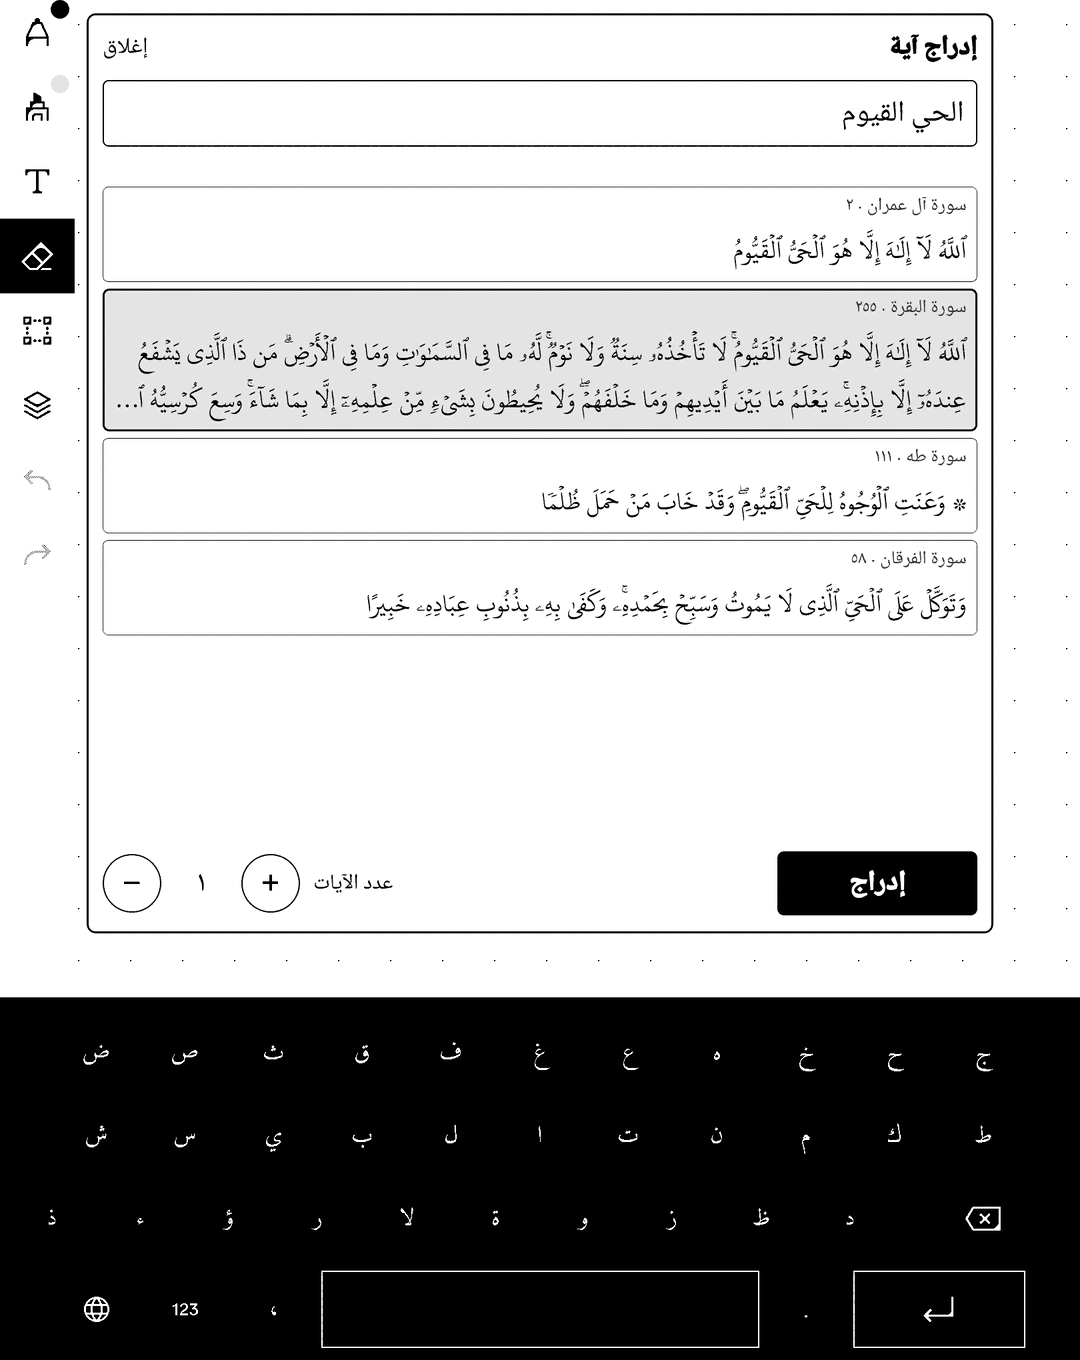
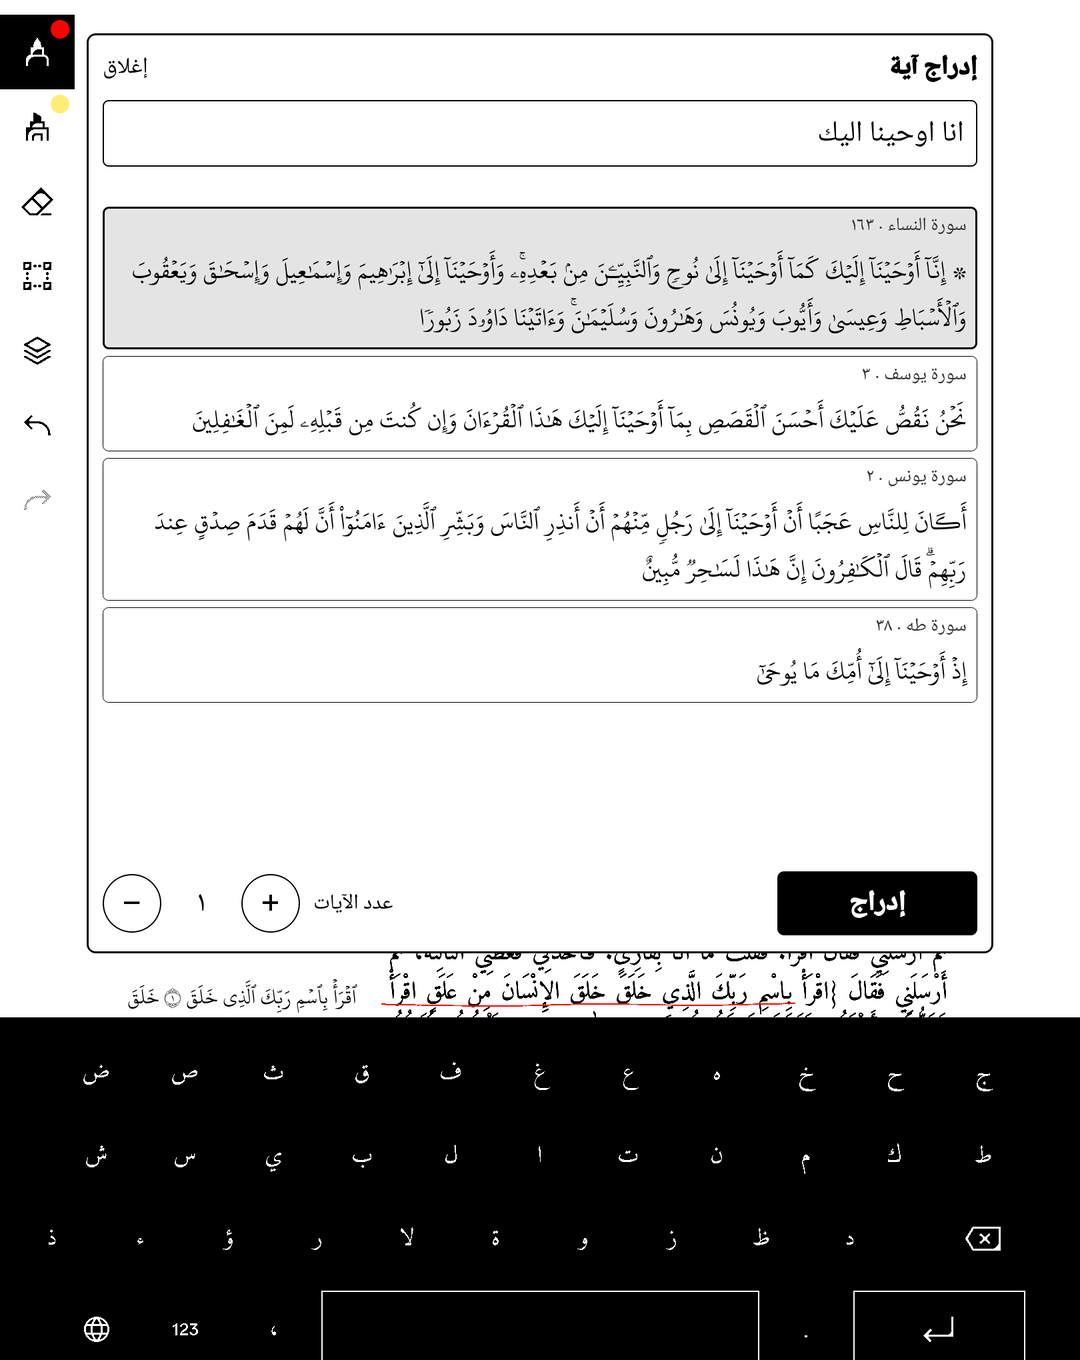
Show the midad layer in colour in the README
New screenshots from the tablet, kept in colour: the opening page of
Sahih al-Bukhari with ayat and a hadith placed in its margin and marked
up with highlighter and pen, the two search panels over it, and a
selected insert with its frame, width handle and toolbar.

Claude-Session: https://claude.ai/code/session_01EzHGbrtMpNPYW5Sa562ebo

diff --git a/ISA.md b/ISA.md
@@ -3,9 +3,9 @@ task: "Ayah toolbar with Arabic keyboard and fuzzy search on reMarkable"
 slug: 20261018-031836_rm-ayah-toolbar
 project: midad
 phase: climbing
-progress: 52/55
+progress: 53/55
 started: 2026-10-18T03:18:36+03:00
-updated: 2026-10-19T03:58:00+03:00
+updated: 2026-10-19T04:45:00+03:00
 principal_stated_goal: "I've created a test note for you, proceed by creating our ayah toolbar, we can use a local version of https://github.com/quran-ws/quran-png to insert ayah(s), with accurate fuzzy search."
 principal_stated_goal_source: prompt
 principal_stated_goal_signal: 4
@@ -117,8 +117,8 @@ Why: anyone with a Paper Pro on xovi (the principal included, after a reset) can
 - [x] C39: A Vellum VELBUILD for the addon exists in the repo, follows Vellum's format, and notes that a person must submit it (no AI-written PR text or co-author trailers).
 - [x] C40: Anti: the shipped QMD carries no dev surfaces (no message-broker probe/reload hooks); those live in a separate dev QMD.
 - [x] C41: Anti: install and uninstall touch only the files the bundle ships (plus their staging and the guard's parking dir); /home/root/ayah-backups and every xochitl document stay untouched.
-- [x] C42: The README opens with real tablet screenshots: a note holding an ayah in the QPC font and a hadith in Amiri, then the ayah and hadith panels, each with a query, ranked results and the Arabic keyboard.
-- [x] C43: Anti: no preview shows the principal's own documents, file names or other personal data, and the image files carry no metadata; every shot comes from the test note.
+- [x] C42: The README opens with real tablet screenshots, in colour: a page holding layer inserts (ayat in the QPC font, a hadith in Amiri) among coloured handwriting, then the ayah and hadith panels, each with a query, ranked results and the Arabic keyboard, then a selected insert with its controls. (refined 2026-10-19 04:40: the principal asked for "pretty new pictures" and "use colors")
+- [x] C43: Anti: no preview shows the principal's own documents, file names or other personal data, and the image files carry no metadata; every shot comes from the test note or the midad demo document.
 - [x] C44: The product is named midad everywhere: GitHub repo HafsOrg/midad, README and flake description in the principal's words, tarball midad-<v>-aarch64.tar.gz, Vellum package midad, tablet folder /home/root/midad, and midad.qmd, midad-kbd.rcc and midad.conf in xovi's shared folders; no tracked file outside this ISA's history keeps the old product name.
 - [x] C45: Anti: the principal's tablet ends the rename with exactly one install, the midad one: no ayah-toolbar folder, ayahBar.qmd, ayah-kbd.rcc or ayah-toolbar.conf left, xochitl healthy with the shim loaded from /home/root/midad, and /home/root/ayah-backups untouched.
 
@@ -141,7 +141,7 @@ Then: "the text sticks to the drawing, can i disable this effect" (2026-10-19): 
 - [x] C57: Anti: no midad insert or move ever shifts or deletes a stroke of the principal's handwriting ("the text sticks to the drawing, can i disable this effect", 2026-10-19). (refined 2026-10-19 03:10: now holds because inserts never enter xochitl's text flow)
 - [x] C58: On a page with handwriting, an insert can still be placed anywhere, and placing or moving it never shifts or deletes a stroke.
 - [x] C59: A new ayah or hadith goes into the midad layer: drawn over the page in its category's font (KFGQPC for ayat, Amiri for hadith), right-aligned, wrapped to its box, and selected right away so it can be moved.
-- [ ] C60: Layer inserts are kept per document and page in `/home/root/.local/share/midad/layer.ini`, written atomically on every change; they come back after the document is closed and reopened and after xochitl restarts, and install, reinstall and uninstall leave that file alone.
+- [x] C60: Layer inserts are kept per document and page in `/home/root/.local/share/midad/layer.ini`, written atomically on every change; they come back after the document is closed and reopened and after xochitl restarts, and install, reinstall and uninstall leave that file alone.
 - [x] C61: A finger tap selects a layer insert. Selected, it follows a finger or the pen anywhere on the page (kept inside the page), a handle sets its width, − and + step its size, حذف removes it, and تم, a page turn or opening the search panel deselects it.
 - [x] C62: Anti: an unselected layer insert doesn't get in the pen's way: a stroke drawn across one lands in the page file like any stroke, and a finger drag that starts on it still scrolls or zooms the page.
 - [x] C63: A layer insert stays over the same spot of the page when the page is zoomed or scrolled.
@@ -264,6 +264,8 @@ Why: this is the principal's daily device with real notes on it.
 - 2026-10-19 03:10: the principal chose "midad layer": inserts drawn by midad over the page and kept in midad's own file, never in xochitl's text, so handwriting is never pinned to them. I'm using it for every new insert, not only on pages with handwriting, since a page can gain handwriting later; typed inserts already on pages stay typed and keep their fonts through the unchanged shim. Typed-text moving retires (handles, نقل, page reads, PDF text mode, `move.js`), so C47–C53 and C56 are tombstoned and C46, C54, C55 and C57 reopen for the layer. Known costs: layer inserts don't show in xochitl's exports, thumbnails or cloud sync, and xochitl's undo doesn't cover them. Storage probe on the tablet: a QML `XMLHttpRequest` PUT writes a file:// URL only when its folder exists (status 0 either way), while QtCore `Settings` (Qt 6.8.2) creates the folders and writes through QSaveFile, so the layer is one INI file, `/home/root/.local/share/midad/layer.ini`, with each document's pages as a JSON value under its id, outside `/home/root/midad` so installs never touch it.
 - 2026-10-19 03:40: the layer draws on two levels. xochitl's pen surface manager keeps a `region` where the pen may write and cuts out every painted item stacked above the surface (Rectangles and Text; a bare Item with a MouseArea is not cut out), on top of explicit `PenInputBlocker`s. So unselected inserts are drawn in an item parented into xochitl's page container (`SceneViewsRoot`, under the pen surface), where the pen writes over them; the selected insert and its frame, width handle and toolbar are drawn in the bar, above the surface, where the pen and the finger drag it. Selection is a passive `TapHandler` on the bar (touchscreen only) that hit-tests the inserts' boxes, so xochitl still gets every touch. Insert text is laid out at its on-screen size rather than scaled from scene units.
 
+- 2026-10-19 04:40: README pictures, from the principal's "go for it, also create pretty new pictures for the readme" and, mid-run, "use colors". A demo document carries them: the opening page of Sahih al-Bukhari (كتاب بدء الوحى, hadith 1 to 3, texts from midad's own hadith data, set in Amiri with typst and a wide note margin), copied in as a v2 PDF document before the install restart. Its margin holds three inserts placed beside what they belong to: 4:163 by the chapter title (Bukhari opens the chapter with it), Bukhari 3215 by hadith 2 (Muslim 2333 was the first pick, but its matn starts mid-name in the corpus), and 96:1-5 by the passage that quotes them. Marks are drawn with the principal's floating-toolbar presets (yellow and cyan highlighter, blue and red pen), one injected stroke each along a smoothed path, and the original preset was selected again afterwards. Screenshots stay in colour as 192-colour palette PNGs.
+
 ## Remaining Work
 
 - [ ] Remember the button's position across reloads and restarts — currently resets to the right edge.
@@ -277,11 +279,11 @@ Why: this is the principal's daily device with real notes on it.
 - [x] The empty line split off a page's first paragraph shows 19 units taller until the note reloads. (moot 2026-10-19 03:10: typed-text moves retired)
 - [x] A new insert on a PDF page lands at the page's full width until it is narrowed. (moot 2026-10-19 03:10: layer inserts start at a set width and move freely)
 - [x] Vertical placement snaps to lines (69.55 units). (moot 2026-10-19 03:10: layer inserts move continuously)
-- [ ] The tablet holds "midad test PDF" (uuid 45dbbc98-ff75-4e69-9b8b-83e46ff6e58e) and "midad test PDF 2" (uuid 0f6a2b54-abf7-4f46-8787-a9b9935d7a58) for testing; delete them when the principal says so.
+- [ ] The tablet holds "midad test PDF" (uuid 45dbbc98-ff75-4e69-9b8b-83e46ff6e58e), "midad test PDF 2" (uuid 0f6a2b54-abf7-4f46-8787-a9b9935d7a58) and "midad demo" (uuid 1eaf01f1-bdf4-45ce-8e31-32006c382f38, the README page) for testing; delete them when the principal says so.
+- [ ] Muslim 2333b's matn starts mid-name ("هِشَامٍ، سَأَلَ…"): the corpus split cut "الحارث بن" into the isnad. Other narrations may share it; worth a sweep of matns that start with a name fragment.
 - [x] Inserting typed text on a page with handwriting still pins that handwriting to the text. (moot 2026-10-19 03:10: new inserts go into the layer; the principal's own typing still pins, as in stock xochitl)
 - [ ] Layer inserts don't appear in xochitl's PDF export, page thumbnails or cloud sync — a midad export, or rendering the layer into the page file, would be its own feature.
 - [ ] Layer inserts aren't covered by xochitl's undo — حذف is immediate.
-- [ ] Install the layer build on the tablet and check inserts come back after the xochitl restart (C60) — waiting for the principal, who was using the tablet when the build was ready; the tablet runs the probe build of the same code until then.
 
 ## Learning
 
@@ -298,6 +300,7 @@ Why: this is the principal's daily device with real notes on it.
 - conjectured: a QML `XMLHttpRequest` PUT to a file:// URL creates the file, folders included, as xochitl's environment allows file writes; refuted by: on the tablet a PUT into a missing folder wrote nothing, and its status was 0 just like a successful PUT's; learned: XHR file writes need an existing folder and report nothing either way; criterion now: midad's own state is written through QtCore `Settings`, which creates its folders and writes atomically, and every write is checked by reading the file back.
 - conjectured: hiding a control hides its `PenInputBlocker`, and an insert without a blocker lets the pen through; refuted by: pen strokes across an unselected insert never reached the page file, and the pen manager's region showed the insert's exact rectangle cut out, along with the آية and حديث buttons; learned: a blocker keeps blocking while hidden, and xochitl also cuts every painted item above its pen surface out of the pen's area; criterion now: blockers exist only while their control shows (a Loader), and anything the pen must write over is drawn under the pen surface; each change is checked against `surfaceManager.region` and a stroke in the page file.
 - conjectured: an insert missing from a 3× zoomed screenshot meant its text failed to render there; refuted by: test texts drew at every size up to 122 px, and the insert's right-aligned 687 px of text sat at x 1733–2420, past the screen's edge; learned: a box being on screen says nothing about where its glyphs are; criterion now: before calling something unrendered, compute where its ink should land (content width and alignment) and zoom or pan so that spot is on screen.
+- conjectured: piping evdev events through `ssh … cat > /dev/input/eventN` is safe at any speed, since each write holds whole events; refuted by: a fast stroke stream failed with "cat: write error: Invalid argument" after five points, which stayed on the page as a stray stroke; learned: ssh delivers the stream in chunks that can cut an event, and evdev rejects a partial one; criterion now: the tablet side re-cuts the stream with `dd bs=24 iflag=fullblock`, and a drawing session ends by decoding the page file for stray strokes.
 
 ## Verification
 
@@ -318,8 +321,8 @@ Why: this is the principal's daily device with real notes on it.
 - C36: real tablet — `nix run .#install` VERIFIED + SWAP 24 files, guard healthy after 10 s, status "up to date", shim mapped; second run "up to date", xochitl pid 4903 before and after, addon inode/size/mtime unchanged; `--dev` swapped 1 file, healthy after 9 s; screenshot tesr-installed2 (QPC at three sizes, آية/حديث buttons).
 - C37: `nix run .#uninstall` REMOVED 4 paths, healthy after 9 s, pid 4204 without libayahfont.so; 0 addon files left; screenshot tap1 (no bar).
 - C41: inode/size/mtime of every file under /home/root, before uninstall and after each step: outside the addon only 11 xochitl state files changed (rewritten at each start), 0 document files, 6270 files before and after, ayah-backups md5 identical.
-- C42: docs/note.png, docs/ayah-search.png, docs/hadith-search.png, shot on Tesr page 2 ("الحي القيوم" → 2:255 inserted, "انما الاعمال بالنيات" → Bukhari 1 inserted); `marked@14.1.4 --gfm` renders the hero `<img>` and a `<table>` with both panels.
-- C43: all three viewed: only Tesr page 2, the panels, the keyboard and stock toolbars; each PNG holds only IHDR/IDAT/IEND chunks.
+- C42: docs/page.png, docs/ayah-search.png, docs/hadith-search.png, docs/edit.png, shot on the midad demo document ("انا اوحينا اليك" → 4:163, "صلصلة الجرس" → Bukhari 3215 and "اقرا باسم ربك الذي خلق" → 96:1-5 inserted, marks in the principal's yellow and cyan highlighter and blue and red pen presets); `marked@14.1.4 --gfm` renders all four `<img>` and the panel `<table>`. (First set, 2026-10-18: docs/note.png on Tesr page 2.)
+- C43: all four viewed: only the demo page, the panels, the keyboard, xochitl's toolbar and the floating toolbar's pen presets; each PNG holds only IHDR/PLTE/IDAT/IEND chunks. (First set: only IHDR/IDAT/IEND, grayscale.)
 - C44: commits 3860a2c, 3d79a8c; `nix flake check` passes; install suite 44/0 with GNU and busybox; `bun run test` 38/0 (= baseline); Vellum lint `PASS: midad`; `gh repo view` → midad, PRIVATE; old-name search over tracked files (excluding ISA.md) empty.
 - C45: tablet after migration: `status --dev` up to date (24 files), pid 13203 LD_PRELOAD and maps → /home/root/midad/lib/libayahfont.so; no ayah-toolbar dir or ayah* file in either xovi folder; ayah-backups md5 = snapshot E; outside midad only xochitl state files changed; screenshot mig4 (Tesr page 2, آية/حديث buttons, QPC + Amiri).
 - C46: Tesr page 2 surveyed before closing and after reopening: every paragraph at the same position and style (ayah 409.1, hadith 896.2).
@@ -345,5 +348,5 @@ Why: this is the principal's daily device with real notes on it.
 - C63: pinch to 2.35× around the insert: its overlap with xochitl's typed «ٱللَّهُ ٱلصَّمَدُ» unchanged (l29 vs l30); `rmpinch` two-slot injector.
 - C64: Tesr page 2 after the layer: typed 2:255 in QPC and the hadith in Amiri (l36); bundle shim md5 ae7a0d7c = installed, no change under device/native.
 - C17: حذف on a fresh insert removed it in one tap (Tesr, rev 1 → 2).
-- C60 (partial): written through QSettings; `layer.ini` read back after every save (`savedRev`, `bun test test/layer` 14 pass); reopen restored inserts; install suite `midad layer untouched` (GNU and busybox, 45/0). Not yet: inserts after a real xochitl restart.
+- C60: written through QSettings; `layer.ini` read back after every save (`savedRev`, `bun test test/layer` 14 pass); reopen restored inserts; install suite `midad layer untouched` (GNU and busybox, 45/0); the real install (c636cda) swapped the bar, removed move.js and restarted xochitl: layer.ini md5 012f2f38 before and after, status up to date, and test PDF 2's inserts back in place after the restart.
 - Layer logic: `bun test test/layer` 14 pass, 44,416 checks, 5 of 5 mutants caught; full `bun run test` 52 pass; `nix flake check` passes; Vellum lint PASS with the new tarball sha512.

diff --git a/README.md b/README.md
@@ -9,11 +9,15 @@ midad is a collection of extensions for the reMarkable Paper Pro that enables Is
 
 It covers the whole Quran (6,236 ayat) and Sahih al-Bukhari and Sahih Muslim (about 13,800 matns). Everything runs on the tablet, offline.
 
-![A note with Ayat al-Kursi in the KFGQPC Quran font and a hadith from Sahih al-Bukhari in Amiri, both inserted by the bar. The آية and حديث buttons on the right open the search panels.](docs/note.png)
+![The opening page of Sahih al-Bukhari, كتاب بدء الوحى, open on the tablet with three midad inserts in its margin: 4:163 in the KFGQPC Quran font beside the chapter title, Bukhari 3215 in Amiri beside hadith 2, and 96:1-5 beside the passage that quotes them. Around them are handwritten marks in colour: a yellow highlight on «إنما الأعمال بالنيات», a red circle round the hadith number, a blue brace tying hadith 2 to its margin note, a red underline under the quoted ayat, and a cyan highlight the pen drew straight over the margin ayah. The آية and حديث buttons on the right open the search panels.](docs/page.png)
 
-| Ayah search: «الحي القيوم» | Hadith search: «انما الاعمال بالنيات» |
+| Ayah search: «انا اوحينا اليك» | Hadith search: «انما الاعمال بالنيات» |
 |---|---|
-| ![The ayah panel lists Al Imran 2, Al-Baqarah 255, Taha 111 and Al-Furqan 58 for the query, with Al-Baqarah 255 selected and a stepper for how many ayat to insert.](docs/ayah-search.png) | ![The hadith panel lists Bukhari 1, Muslim 1907, Bukhari 6953 and Bukhari 6689 for the query, each with its book.](docs/hadith-search.png) |
+| ![The ayah panel lists An-Nisa 163, Yusuf 3, Yunus 2 and Taha 38 for the query, with An-Nisa 163 selected and a stepper for how many ayat to insert.](docs/ayah-search.png) | ![The hadith panel lists Bukhari 1, Muslim 1907, Bukhari 6953 and Bukhari 6689 for the query, each with its book.](docs/hadith-search.png) |
+
+Tap an insert to move it: drag it anywhere on the page with a finger or the pen, set its width with the handle on its left edge, or use the toolbar to change its size or remove it.
+
+![A selected insert, Bukhari 3215 in the margin, inside a frame with the width handle on its left edge and a toolbar above it: حذف, −, + and تم. The blue brace and the hadith it annotates are beside it.](docs/edit.png)
 
 ## Requirements
 
